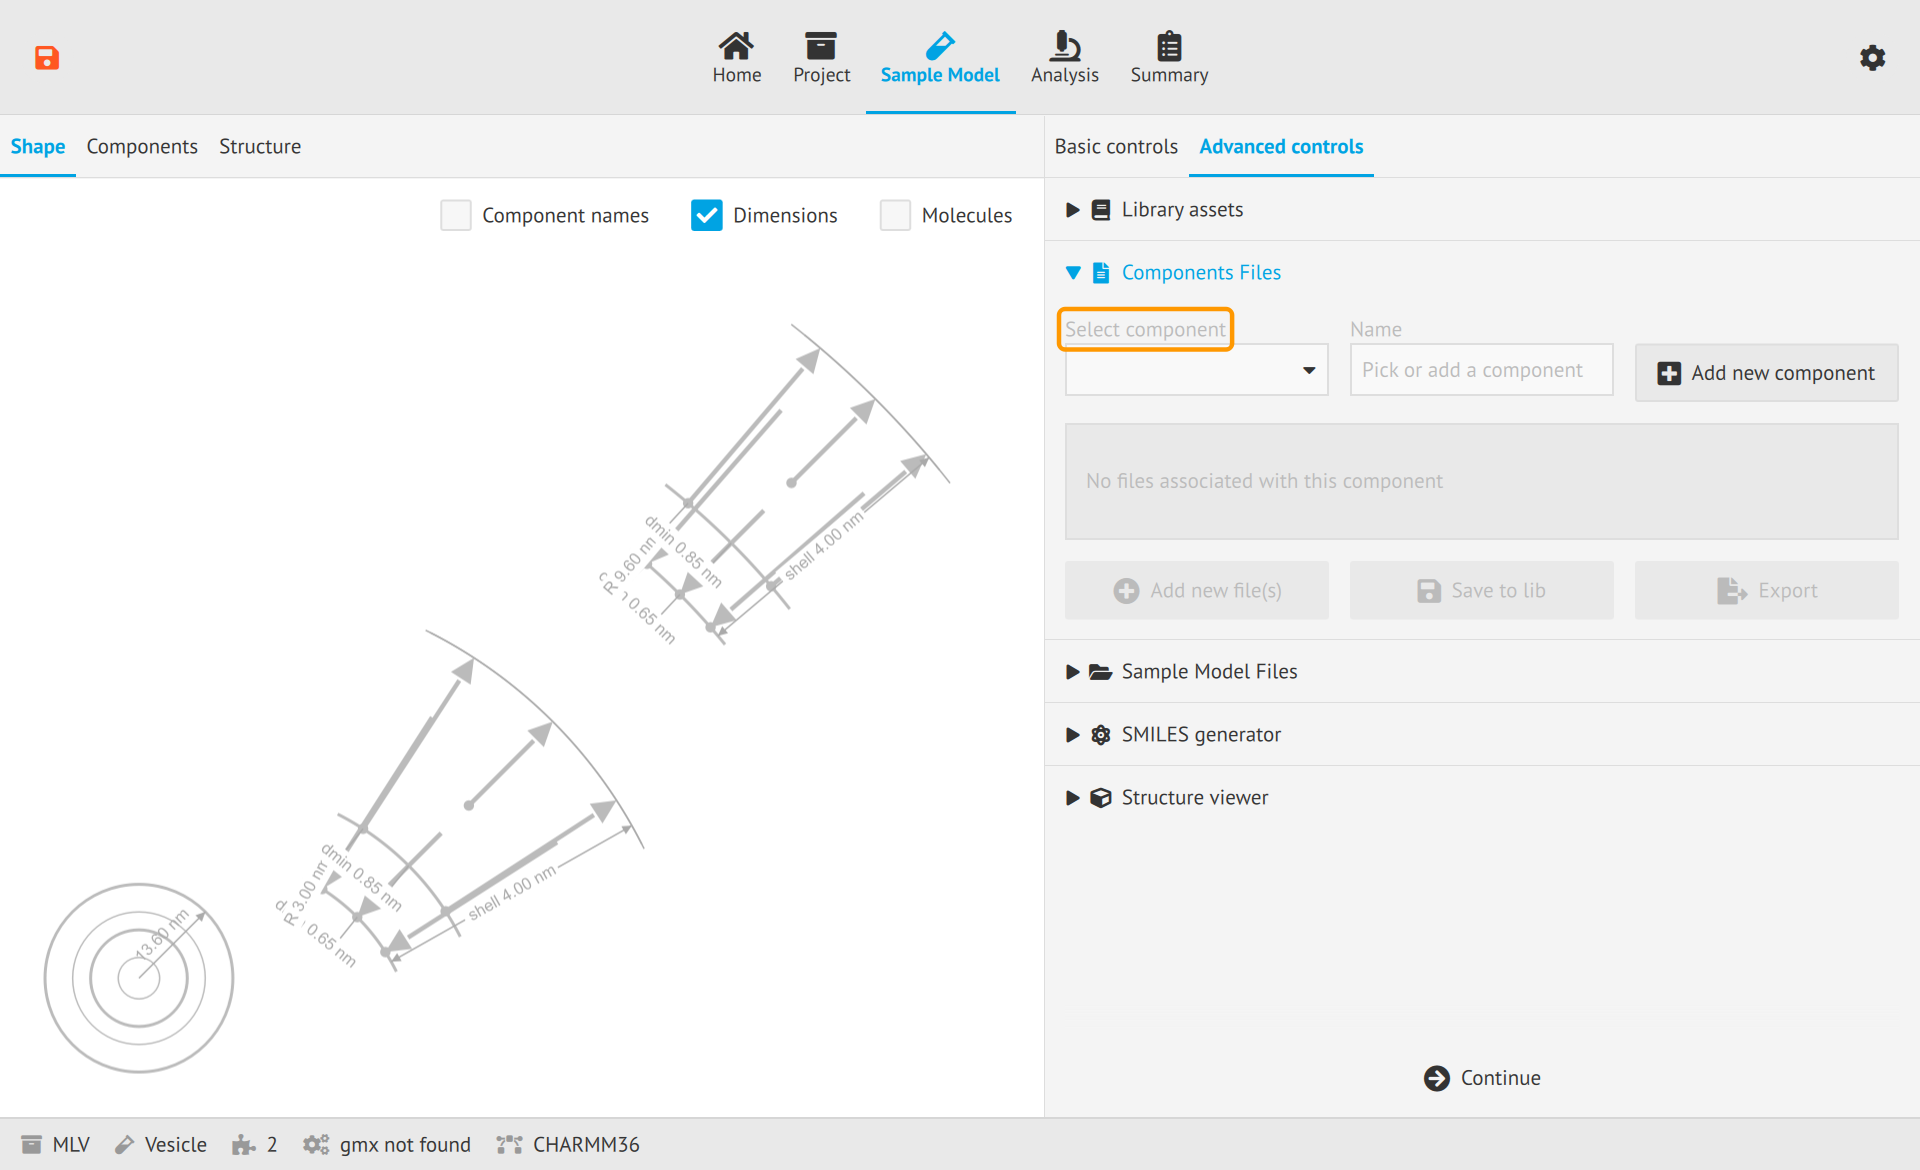
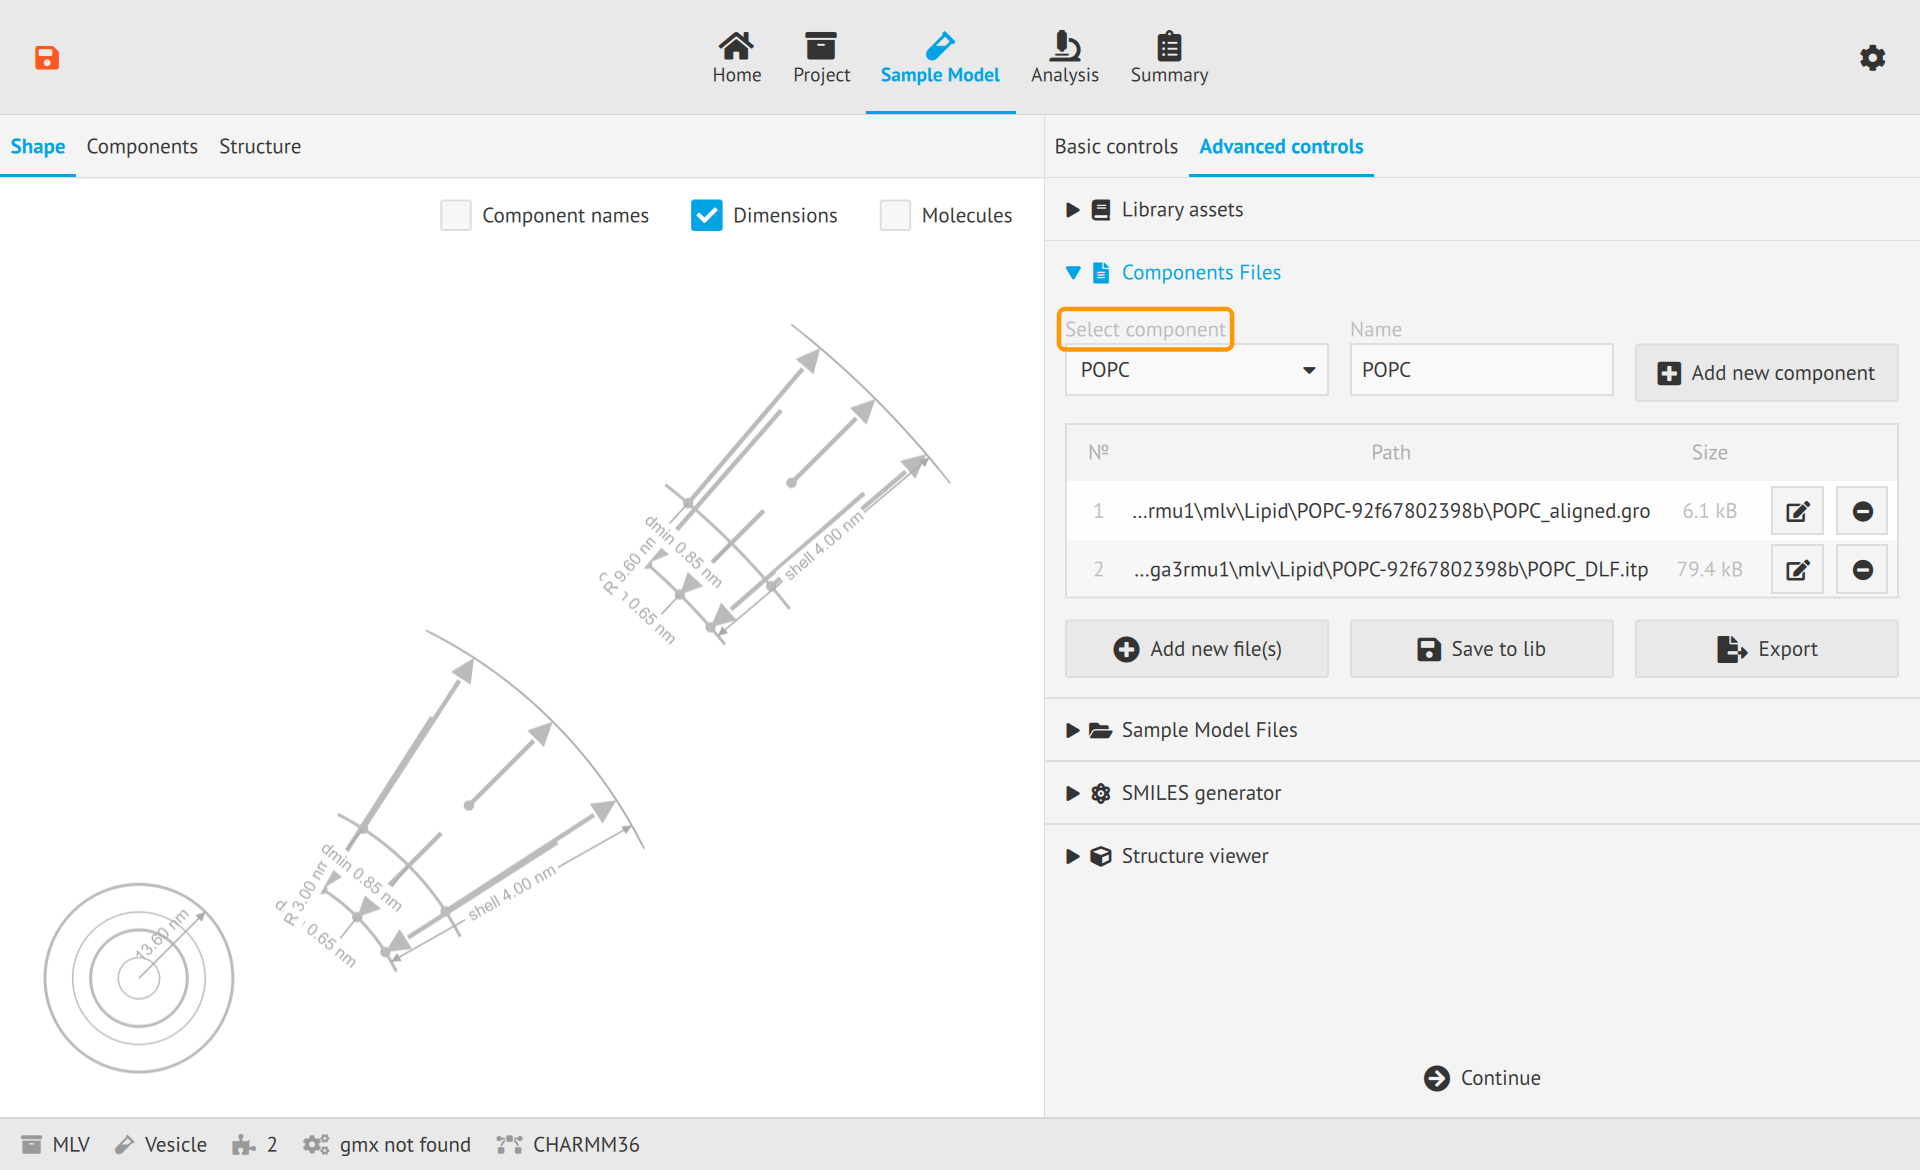
Draft the SDS ball tutorial and prepare its screenshots

diff --git a/tools/docs_capture.py b/tools/docs_capture.py
@@ -3,7 +3,10 @@
 """
 Screenshots of the app for the docs. Run from the shapes-app folder:
 
-    pixi run python tools/docs_capture.py OUTPUT_DIR
+    pixi run python tools/docs_capture.py OUTPUT_DIR [SHOT ...]
+
+A SHOT is a file name without its theme and .png, such as
+sample-model-basic-buffer; without any, every shot is taken.
 
 The app runs with the Python backend, in a 1280 x 800 window, once in
 the light and once in the dark theme. Its settings and projects go to a
@@ -16,6 +19,7 @@ kept in CACHE_DIR (easyshapes-docs-cache in the system's temp folder)
 between runs; delete it after changing build_mlv.
 """
 
+import re
 import shutil
 import subprocess
 import sys
@@ -73,6 +77,8 @@ QtObject {
     function openTab(name) { if (!tabs[name].checked) tabs[name].toggle() }
     // The Create project dialog, as Get started's first button opens it
     function showCreateDialog(shown) { EaGlobals.Vars.showProjectDescriptionDialog = shown }
+    // A component's files in Components Files, as its dropdown picks it
+    function pickComponentFiles(name) { Globals.BackendWrapper.componentsFilesSelect(name) }
 }
 """
 
@@ -132,6 +138,67 @@ def build_lattice_ball(path):
     )
     project.save()
     return project
+
+
+# The tail restraints the SDS tutorial puts into SDS.itp: Shapespyer's
+# SDS ball example, C2 to C12 within 2 nm of the box centre
+SDS_RESTRAINTS = """#ifdef POSRES
+[ position_restraints ]
+;  ai  funct  g    r  k
+    9      2  1  2.0  POSRES_FC_LIP   ; C2
+   15      2  1  2.0  POSRES_FC_LIP   ; C4
+   21      2  1  2.0  POSRES_FC_LIP   ; C6
+   27      2  1  2.0  POSRES_FC_LIP   ; C8
+   33      2  1  2.0  POSRES_FC_LIP   ; C10
+   39      2  1  2.0  POSRES_FC_LIP   ; C12, the tail end
+#endif
+"""
+
+
+def make_sds_run(folder):
+    """
+    Save the SDS tutorial's project to folder/SDSBall-run as its steps
+    leave it: assembled, the tail restraints in SDS.itp, eq0 and eq1
+    run with the restraints at the box centre, and its two curves
+    calculated. Skipped when the folder exists. Needs GROMACS.
+    """
+    from Backends.real_py.logic.analysis import fill_configuration
+    from Backends.real_py.logic.examples import build_sds_ball
+    from shapes.project.analysis import SansCurve
+
+    path = Path(folder) / 'SDSBall-run'
+    if path.exists():
+        return
+    partial = path.with_name('SDSBall-run.partial')
+    shutil.rmtree(partial, ignore_errors=True)
+    project = build_sds_ball(partial)
+    fill_configuration(project.analysis)
+    project.sample_model.assemble()
+    # The first save copies the files in, so the edit below hits the
+    # project's SDS.itp, not the library's
+    project.save()
+    sds = next(c for c in project.sample_model.structure.components if c.name == 'SDS')
+    itp = next(p for p in sds.paths if p.suffix == '.itp')
+    text, found = re.subn(
+        r'#ifdef POSRES.*?#endif\n', SDS_RESTRAINTS, itp.read_text(), count=1, flags=re.S
+    )
+    if not found:
+        raise ValueError(f'No POSRES block in {itp}')
+    itp.write_text(text)
+    equilibration = project.analysis.equilibration
+    equilibration.last_stage = 1
+    equilibration.restrain_to_box_center = True
+    equilibration.run()
+    # Named as the app names them, so they read like the reader's own
+    for sld, deuterated in ((6.36, ()), (-0.56, ('SDS',))):
+        name = f'SDSBall-eq1-sld{sld:g}' + ''.join(f'-d{d}' for d in deuterated) + '-pd0.25'
+        curve = SansCurve(
+            equilibration.stages[1], name=name, solvent_sld=sld, deuterated=deuterated
+        )
+        curve.calculate(project.sample_model)
+        project.analysis.sans.append(curve)
+    project.save()
+    partial.rename(path)
 
 
 def find_item(window, accept, what):
@@ -241,7 +308,7 @@ def temp_entries():
     return set((AppFileManager().app_path / 'Temp').glob('*/*'))
 
 
-def main(output_dir, theme):
+def main(output_dir, theme, names=()):
     output_dir = Path(output_dir)
     output_dir.mkdir(parents=True, exist_ok=True)
     scrap = Path(tempfile.mkdtemp(prefix='easyshapes-docs-'))
@@ -291,6 +358,7 @@ def main(output_dir, theme):
         # folder create one in the app. The Project scene comes first,
         # while the page still shows only Get started: Recent projects
         # lists your own
+        sds_run = CACHE_DIR / 'SDSBall-run'
         scenes = {
             'project': (
                 ('POPC-vesicle', 'Dry POPC and cholesterol, two lamellae.', PROJECT_LOCATION),
@@ -333,8 +401,31 @@ def main(output_dir, theme):
                 ('advanced-configuration-files', advanced, 'Configuration Files', 'Engine output'),
             ]),
             'sds-ball': (build_sds_ball, 'sample-model', [
-                ('basic-layers', basic, 'Layers', 'Shape'),
-                ('basic-buffer', basic, 'Buffer', 'Shape'),
+                ('basic-layers', basic, 'Layers', 'Shape',
+                 ('tutorial-sds-layers', ['Dmin, nm', 'Rmin, nm'])),
+                ('basic-buffer', basic, 'Buffer', 'Shape',
+                 ('tutorial-sds-buffer', ['Solvent'])),
+                ('basic-sds-components', basic, 'Components', 'Shape',
+                 ('tutorial-sds-components', ['C-ion'])),
+            ]),
+            # The SDS tutorial as its steps leave it: assembled, eq0 and
+            # eq1 run, two curves (make_sds_run)
+            'sds-run': (lambda path: shutil.copytree(sds_run, path), 'sample-model', [
+                ('sds-main-structure', advanced, 'Structure viewer', 'Structure',
+                 ('tutorial-sds-structure', ['Structure'])),
+                ('sds-components-files', advanced, 'Components Files', 'Shape',
+                 ('tutorial-sds-components-files', ['Select component'])),
+            ]),
+            'sds-run-analysis': (lambda path: shutil.copytree(sds_run, path), 'analysis', [
+                ('sds-equilibration', basic, 'Equilibration', 'Engine output',
+                 ('tutorial-sds-equilibration', ['Last stage', 'Restrain to box centre'])),
+                ('main-structure', basic, 'Equilibration', 'Structure',
+                 ('tutorial-sds-stage', ['Stage'])),
+                ('main-engine-output', basic, 'Equilibration', 'Engine output'),
+                ('sds-scattering-setup', basic, 'Scattering', 'Scattering',
+                 ('tutorial-sds-scattering-setup', ['Solvent SLD, 10⁻⁶ Å⁻²', 'Deuterate'])),
+                ('main-scattering', advanced, 'Scattering view', 'Scattering',
+                 ('tutorial-sds-scattering', ['Rg, Å', 'Staggered view'])),
             ]),
             'lattice-ball': (build_lattice_ball, 'sample-model', [
                 ('basic-ball-structure', basic, 'Ball Structure Definition', 'Shape'),
@@ -342,7 +433,20 @@ def main(output_dir, theme):
                 ('main-lattice', basic, 'Lattice Parameters', 'Lattice'),
             ]),
         }
+        # A mistyped name would take no shot at all, without a word
+        known = {f'{page}-{shot[0]}' for _, page, shots in scenes.values() for shot in shots}
+        if unknown := set(names) - known:
+            raise ValueError(f'No shots named {", ".join(sorted(unknown))}')
         for scene, (build, page, shots) in scenes.items():
+            # The SDS run exists only where GROMACS made it (__main__)
+            if scene.startswith('sds-run') and not sds_run.exists():
+                print(f'{scene}: skipped, no SDS run in {sds_run}')
+                continue
+            # Only the shots asked for: a scene without any isn't made
+            if names:
+                shots = [shot for shot in shots if f'{page}-{shot[0]}' in names]
+                if not shots:
+                    continue
             if callable(build):
                 path = str(scrap / scene)
                 build(path)
@@ -380,6 +484,10 @@ def main(output_dir, theme):
                         'component viewer',
                     )
                     viewer.setProperty('_pinnedIndex', 19)
+                # Files to show: each tutorial opens its .itp here
+                picked = {'advanced-components-files': 'POPC', 'sds-components-files': 'SDS'}
+                if name in picked:
+                    call(driver, 'pickComponentFiles', picked[name])
                 if name == 'create-dialog':
                     call(driver, 'showCreateDialog', True)
                 wait(2500)
@@ -418,16 +526,23 @@ def main(output_dir, theme):
 
 
 if __name__ == '__main__':
-    output_dir, *theme = sys.argv[1:]
-    if theme:
-        main(output_dir, theme[0])
+    output_dir, *rest = sys.argv[1:]
+    # Each theme's run is this script again, with the theme first
+    if rest and rest[0] in THEMES:
+        main(output_dir, rest[0], rest[1:])
     else:
         from Backends.real_py.logic.examples import make_examples
 
         # Here, with no window: assembling takes minutes, and a window
         # kept busy that long stops answering
         make_examples(CACHE_DIR, ['MLV'], assemble=True)
+        # The SDS tutorial's run needs GROMACS: where there is none, its
+        # scenes are left out
+        from shapes.project.files import AppFileManager
+
+        if AppFileManager().config.gmx_problem is None:
+            make_sds_run(CACHE_DIR)
         # One app per theme: a status bar value keeps the colour of the
         # theme it last changed in (EasyApp StatusBarItem.qml:81-84)
         for name in THEMES:
-            subprocess.run([sys.executable, __file__, output_dir, name], check=True)
+            subprocess.run([sys.executable, __file__, output_dir, name, *rest], check=True)

diff --git a/docs/docs/tutorials/sds-ball/index.md b/docs/docs/tutorials/sds-ball/index.md
@@ -1,8 +1,186 @@
 # SDS Ball (Micelle)
 
-!!! note "Being written"
+## The goal
 
-    This tutorial is being written.
+Build a ball of SDS (sodium dodecyl sulfate) molecules with their sodium
+counter-ions in water: a model of an SDS micelle. Equilibrate it briefly
+with GROMACS, then calculate two small-angle neutron scattering (SANS)
+curves: one in heavy water (D₂O), and one in light water (H₂O) with
+deuterated SDS.
 
-**Goal:** build a ball of SDS molecules, equilibrate it with GROMACS and
-calculate its scattering curve, following the Shapespyer example.
+The ball follows Shapespyer's SDS ball tutorial: one layer with 16
+molecules on its equator, 0.4 nm apart. So Rmin is 16 × 0.4 / 2π, about
+1.02 nm.
+
+The equilibration runs two stages: an energy minimisation (eq0) and 25
+ps of molecular dynamics with restraints (eq1). That takes minutes.
+
+## Before you start
+
+- Install EasyShapes and GROMACS (Linux, macOS, or WSL on Windows), see
+  [Installation & Setup](../../installation-and-setup/index.md). The
+  status bar shows whether the app found GROMACS.
+- This tutorial edits a topology file the way the
+  [vesicle tutorial](../mlv/index.md) explains. Read that one first.
+
+## Create the project
+
+1. On the Home page, click **Start**.
+2. Click **Create a new project**, set **Name** to `SDSBall` and click
+   **OK**.
+3. Click **Continue**. The Sample Model page opens.
+
+## Build the ball
+
+In **Basic controls** › **Model Definition**, set **Shape** to Ball.
+Keep **Type** at Discrete.
+
+In **Basic controls** › **Components**:
+
+1. Click **Load component(s)**, click SDS in the list and click **OK**.
+2. In the SDS row, set **C-ion** to NAT. Each SDS gets one sodium ion.
+
+<!-- Image: tutorial-sds-components – Components group, C-ion boxed -->
+
+In **Basic controls** › **Layers**, set **Dmin, nm** to 0.4 and **Rmin,
+nm** to 1.02 in row 1.
+
+<!-- Image: tutorial-sds-layers – Layers group, Dmin, nm and Rmin, nm boxed -->
+
+In **Basic controls** › **Buffer**, set **Solvent** to TIP3.
+
+<!-- Image: tutorial-sds-buffer – Buffer group, Solvent boxed -->
+
+## Save and assemble
+
+Press Ctrl+S to save the project. As in the vesicle tutorial, save
+before you edit any file.
+
+Click **Assemble**. Shapespyer places the molecules, and GROMACS adds
+the sodium ions and the water. The main area shows the Structure tab.
+
+<!-- Image: tutorial-sds-structure – Structure tab boxed -->
+
+## Restrain the tails
+
+In eq1, restraints keep the micelle's core together while the water
+settles. Here they act on the tail carbons and are anchored at the
+centre of the box: the second way in the vesicle tutorial's
+[table](../mlv/index.md#two-ways-to-restrain).
+
+In **Advanced controls** › **Components Files**, set **Select
+component** to SDS and click :material-pencil: next to `SDS.itp`. At its
+end, the library's file restrains only the sulfur atom:
+
+```
+#ifdef POSRES
+[ position_restraints ]
+    1     1    POSRES_FC_LIP    POSRES_FC_LIP    POSRES_FC_LIP
+#endif
+```
+
+Replace these lines with the restraints of Shapespyer's SDS ball
+example, and save the file:
+
+```
+#ifdef POSRES
+[ position_restraints ]
+;  ai  funct  g    r  k
+    9      2  1  2.0  POSRES_FC_LIP   ; C2
+   15      2  1  2.0  POSRES_FC_LIP   ; C4
+   21      2  1  2.0  POSRES_FC_LIP   ; C6
+   27      2  1  2.0  POSRES_FC_LIP   ; C8
+   33      2  1  2.0  POSRES_FC_LIP   ; C10
+   39      2  1  2.0  POSRES_FC_LIP   ; C12, the tail end
+#endif
+```
+
+<!-- Image: tutorial-sds-components-files – Components Files with SDS picked, Select component boxed -->
+
+What the new lines mean:
+
+- `ai` – every second carbon of the tail, C2 to C12, by its number in
+  the file's `[ atoms ]` list.
+- `funct` 2 – a flat-bottom restraint.
+- `g` 1 – its shape: a sphere.
+- `r` 2.0 – the sphere's radius, in nm. Inside it the atom moves freely.
+  Outside it, a spring pulls the atom back.
+- `k` – the spring's force constant. Each stage's `.mdp` file sets it:
+  200 kJ mol⁻¹ nm⁻² in eq1.
+
+With **Restrain to box centre** ticked (next section), the spheres sit
+at the centre of the box. So every restrained carbon stays within 2 nm
+of the centre, and the core holds together.
+
+## Equilibrate
+
+1. Click **Continue**. The Analysis page opens.
+2. In **Basic controls** › **Equilibration**, keep **Configuration** and
+   **Force field** at CHARMM36.
+3. Keep **First stage** at eq0, and set **Last stage** to eq1.
+4. Tick **Restrain to box centre**.
+5. Click **Equilibrate**. The Engine output tab shows the GROMACS
+   commands and their output while the run goes on.
+
+<!-- Image: tutorial-sds-equilibration – Equilibration group, Last stage and Restrain to box centre boxed -->
+
+!!! info "While it runs"
+
+    eq0 minimises the energy: it moves the atoms out of each other's
+    way, without restraints.
+
+    eq1 runs 25 ps of molecular dynamics at 310 K, with the tail
+    restraints at 200 kJ mol⁻¹ nm⁻².
+
+    The configuration's later stages lower the restraints step by step
+    and then run without them, for a better relaxed micelle. They take
+    much longer.
+
+## Look at the result
+
+Open the main area's **Structure** tab and set **Stage** to eq1.
+
+<!-- Image: tutorial-sds-stage – Analysis Structure tab, Stage boxed -->
+
+## Calculate the curves
+
+In **Basic controls** › **Scattering**:
+
+1. Set **Structure** to eq1.
+2. Set **Solvent SLD, 10⁻⁶ Å⁻²** to 6.36, for D₂O, and click
+   **Calculate**.
+3. Set **Solvent SLD, 10⁻⁶ Å⁻²** to −0.56, for H₂O, tick SDS under
+   **Deuterate**, and click **Calculate**.
+
+Keep the other fields at their defaults.
+
+<!-- Image: tutorial-sds-scattering-setup – Scattering group, Solvent SLD and Deuterate boxed -->
+
+!!! info "Why these two curves"
+
+    The calculation scatters from the SDS atoms only. The water and the
+    ions count as a uniform solvent, without a hydration shell.
+
+    In D₂O, the hydrogen-rich tails stand out strongly against the heavy
+    water: a common SANS measurement of SDS micelles. In H₂O, deuterated
+    tails stand out just as strongly against the light water. The tails
+    dominate both curves. The head groups have a different contrast in
+    each, so the curves differ where the head-group shell matters.
+
+## Read the curves
+
+The Scattering tab draws both curves. In **Advanced controls** ›
+**Scattering view**, the **Rg, Å** column gives each curve's radius of
+gyration. Tick **Staggered view** to draw the second curve lower, so the
+two don't overlap.
+
+<!-- Image: tutorial-sds-scattering – Scattering tab with both curves -->
+
+## Save
+
+Press Ctrl+S.
+
+## Next
+
+The User Guide's [Analysis](../../user-guide/analysis.md) page describes
+every control used here.
